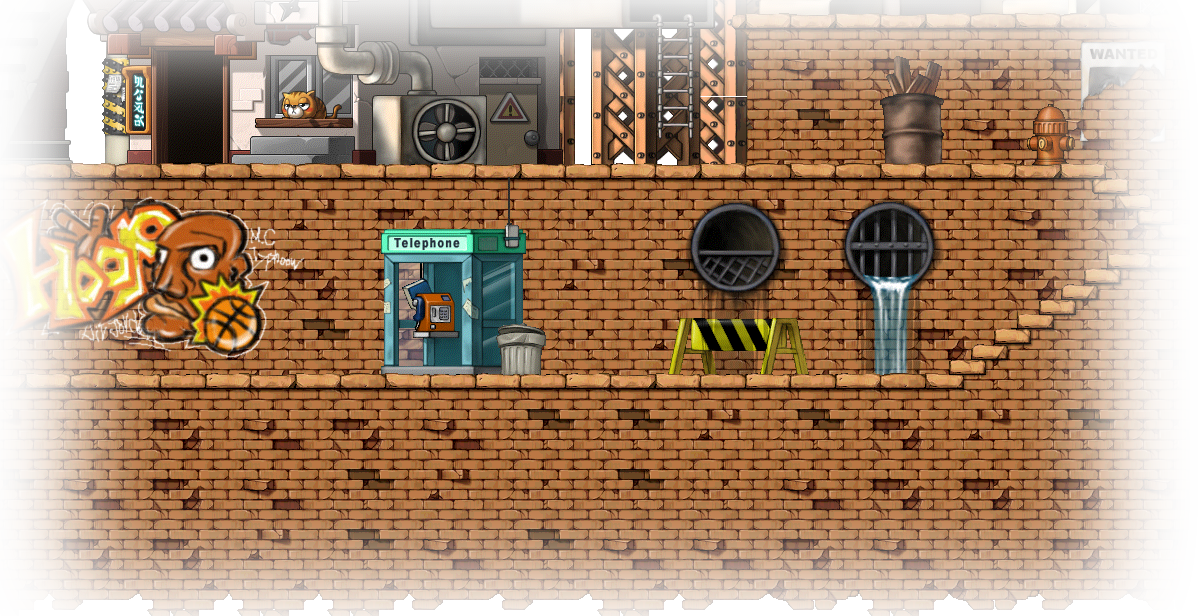
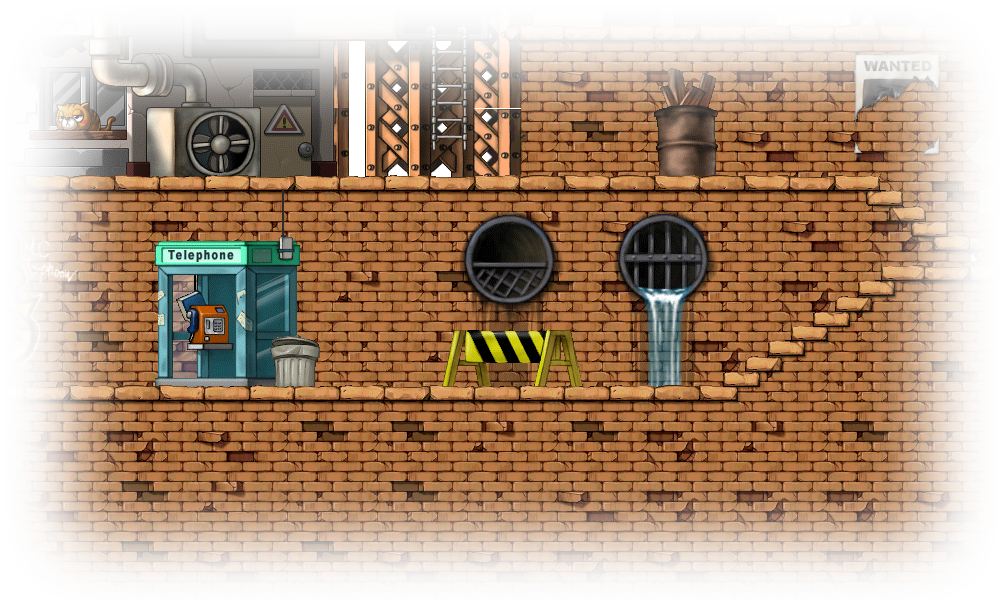
Make some of the KPQ backdrops more consistently sized with others

diff --git a/src/scene/Kerning/kpq/SewerEntrance2.tsx b/src/scene/Kerning/kpq/SewerEntrance2.tsx
@@ -11,42 +11,42 @@ const useStyles = createUseStyles({
     root: {
         position: "relative",
         background: `url(${KerningSewerFull2Image}) no-repeat`,
-        width: "1200px",
-        height: "616px",
+        width: "100%",
+        height: "100%",
     },
     character: {
         position: "absolute",
         filter: "drop-shadow(0 0 3px #fffee8) drop-shadow(0 0 3px #fffee8)",
     },
     player: {
-        left: "300px",
-        top: "306px",
-        height: "70px",
+        left: 190,
+        top: "325px",
+        height: "65px",
     },
     sho: {
-        left: "380px",
-        top: "297px",
+        left: 240,
+        top: 308,
         transform: "scale(-1, 1)",
     },
     stefa: {
-        left: "450px",
-        top: "308px",
+        left: 300,
+        top: "317px",
         transform: "scale(-1, 1)",
     },
     wess: {
-        left: "480px",
-        top: "300px",
+        left: 338,
+        top: 310,
         transform: "scale(-1, 1)",
     },
     lakelis: {
         top: 255,
-        left: 972,
+        left: 768,
     },
     flip: {
         transform: "scale(-1, 1)",
     },
     bystander: {
-        top: 303,
+        top: 313,
         width: 48,
     },
     speechBubble: {
@@ -59,9 +59,9 @@ const useStyles = createUseStyles({
 const SewerEntrance2 = ({ player }: SceneProps) => {
     const classes = useStyles();
     const [bystanders] = useState(
-        Array.from({ length: 12 }).map((_, i: number) => ({
+        Array.from({ length: 10 }).map((_, i: number) => ({
             flip: Math.random() < 0.5,
-            left: 600 + i * getRandomArbitrary(20, 30),
+            left: 400 + i * getRandomArbitrary(20, 30),
             text: getBystanderDialogue(),
         }))
     );

diff --git a/src/scene/Kerning/kpq/SewerEntrance.tsx b/src/scene/Kerning/kpq/SewerEntrance.tsx
@@ -11,35 +11,35 @@ const useStyles = createUseStyles({
     root: {
         position: "relative",
         background: `url(${KerningSewerFullImage}) no-repeat`,
-        width: "1200px",
-        height: "616px",
+        width: "100%",
+        height: "100%",
     },
     character: {
         position: "absolute",
         filter: "drop-shadow(0 0 3px #fffee8) drop-shadow(0 0 3px #fffee8)",
     },
     player: {
-        left: "200px",
-        top: "306px",
-        height: "70px",
+        left: 200,
+        top: 323,
+        height: "65px",
     },
     sho: {
         left: "470px",
-        top: "297px",
+        top: 308,
     },
     stefa: {
         left: "430px",
-        top: "308px",
+        top: "317px",
     },
     wess: {
         left: "380px",
-        top: "300px",
+        top: 310,
     },
     flip: {
         transform: "scale(-1, 1)",
     },
     bystander: {
-        top: 310,
+        top: 313,
         width: 48,
     },
     speechBubble: {
@@ -52,9 +52,9 @@ const useStyles = createUseStyles({
 const SewerEntrance = ({ player }: SceneProps) => {
     const classes = useStyles();
     const [bystanders] = useState(
-        Array.from({ length: 10 }).map((_, i: number) => ({
+        Array.from({ length: 7 }).map((_, i: number) => ({
             flip: Math.random() < 0.5,
-            left: 800 + i * getRandomArbitrary(20, 40),
+            left: 700 + i * getRandomArbitrary(20, 40),
             text: getBystanderDialogue(),
         }))
     );

diff --git a/src/scene/Kerning/kpq/LakelisClickQuest.tsx b/src/scene/Kerning/kpq/LakelisClickQuest.tsx
@@ -36,8 +36,8 @@ const useStyles = createUseStyles({
     scene: {
         position: "relative",
         background: `url(${KerningSewerFullImage}) no-repeat`, // placeholder...
-        width: "1200px",
-        height: "616px",
+        width: "1000",
+        height: "600",
     },
     character: {
         position: "absolute",
@@ -45,14 +45,14 @@ const useStyles = createUseStyles({
         cursor: "pointer",
     },
     lakelis: {
-        top: 303,
+        top: 313,
         left: lakelisX,
     },
     flip: {
         transform: "scale(-1, 1)",
     },
     bystander: {
-        top: 303,
+        top: 313,
         width: 48,
     },
     speechBubble: {
@@ -75,7 +75,6 @@ const useStyles = createUseStyles({
             transform: "rotate(360deg)",
         },
     },
-    progressContainer: {},
 });
 
 const MAX_BYSTANDERS = 8;
@@ -93,7 +92,7 @@ const LakelisClickQuest = ({ onComplete }: SceneProps) => {
             text: Math.random() < 0.7 ? getBystanderDialogue() : "",
             clicked: null,
             trajectory: [0, 0],
-            top: 303,
+            top: 313,
         };
     };
     const [bystanders, setBystanders] = useState(
@@ -224,7 +223,7 @@ const LakelisClickQuest = ({ onComplete }: SceneProps) => {
                             return bystanderImg;
                         })}
 
-                        <div className={classes.progressContainer}>
+                        <div>
                             <LinearProgress
                                 color="secondary"
                                 value={(clickedLakelisTimes / CLICKS_TO_COMPLETE) * 100}